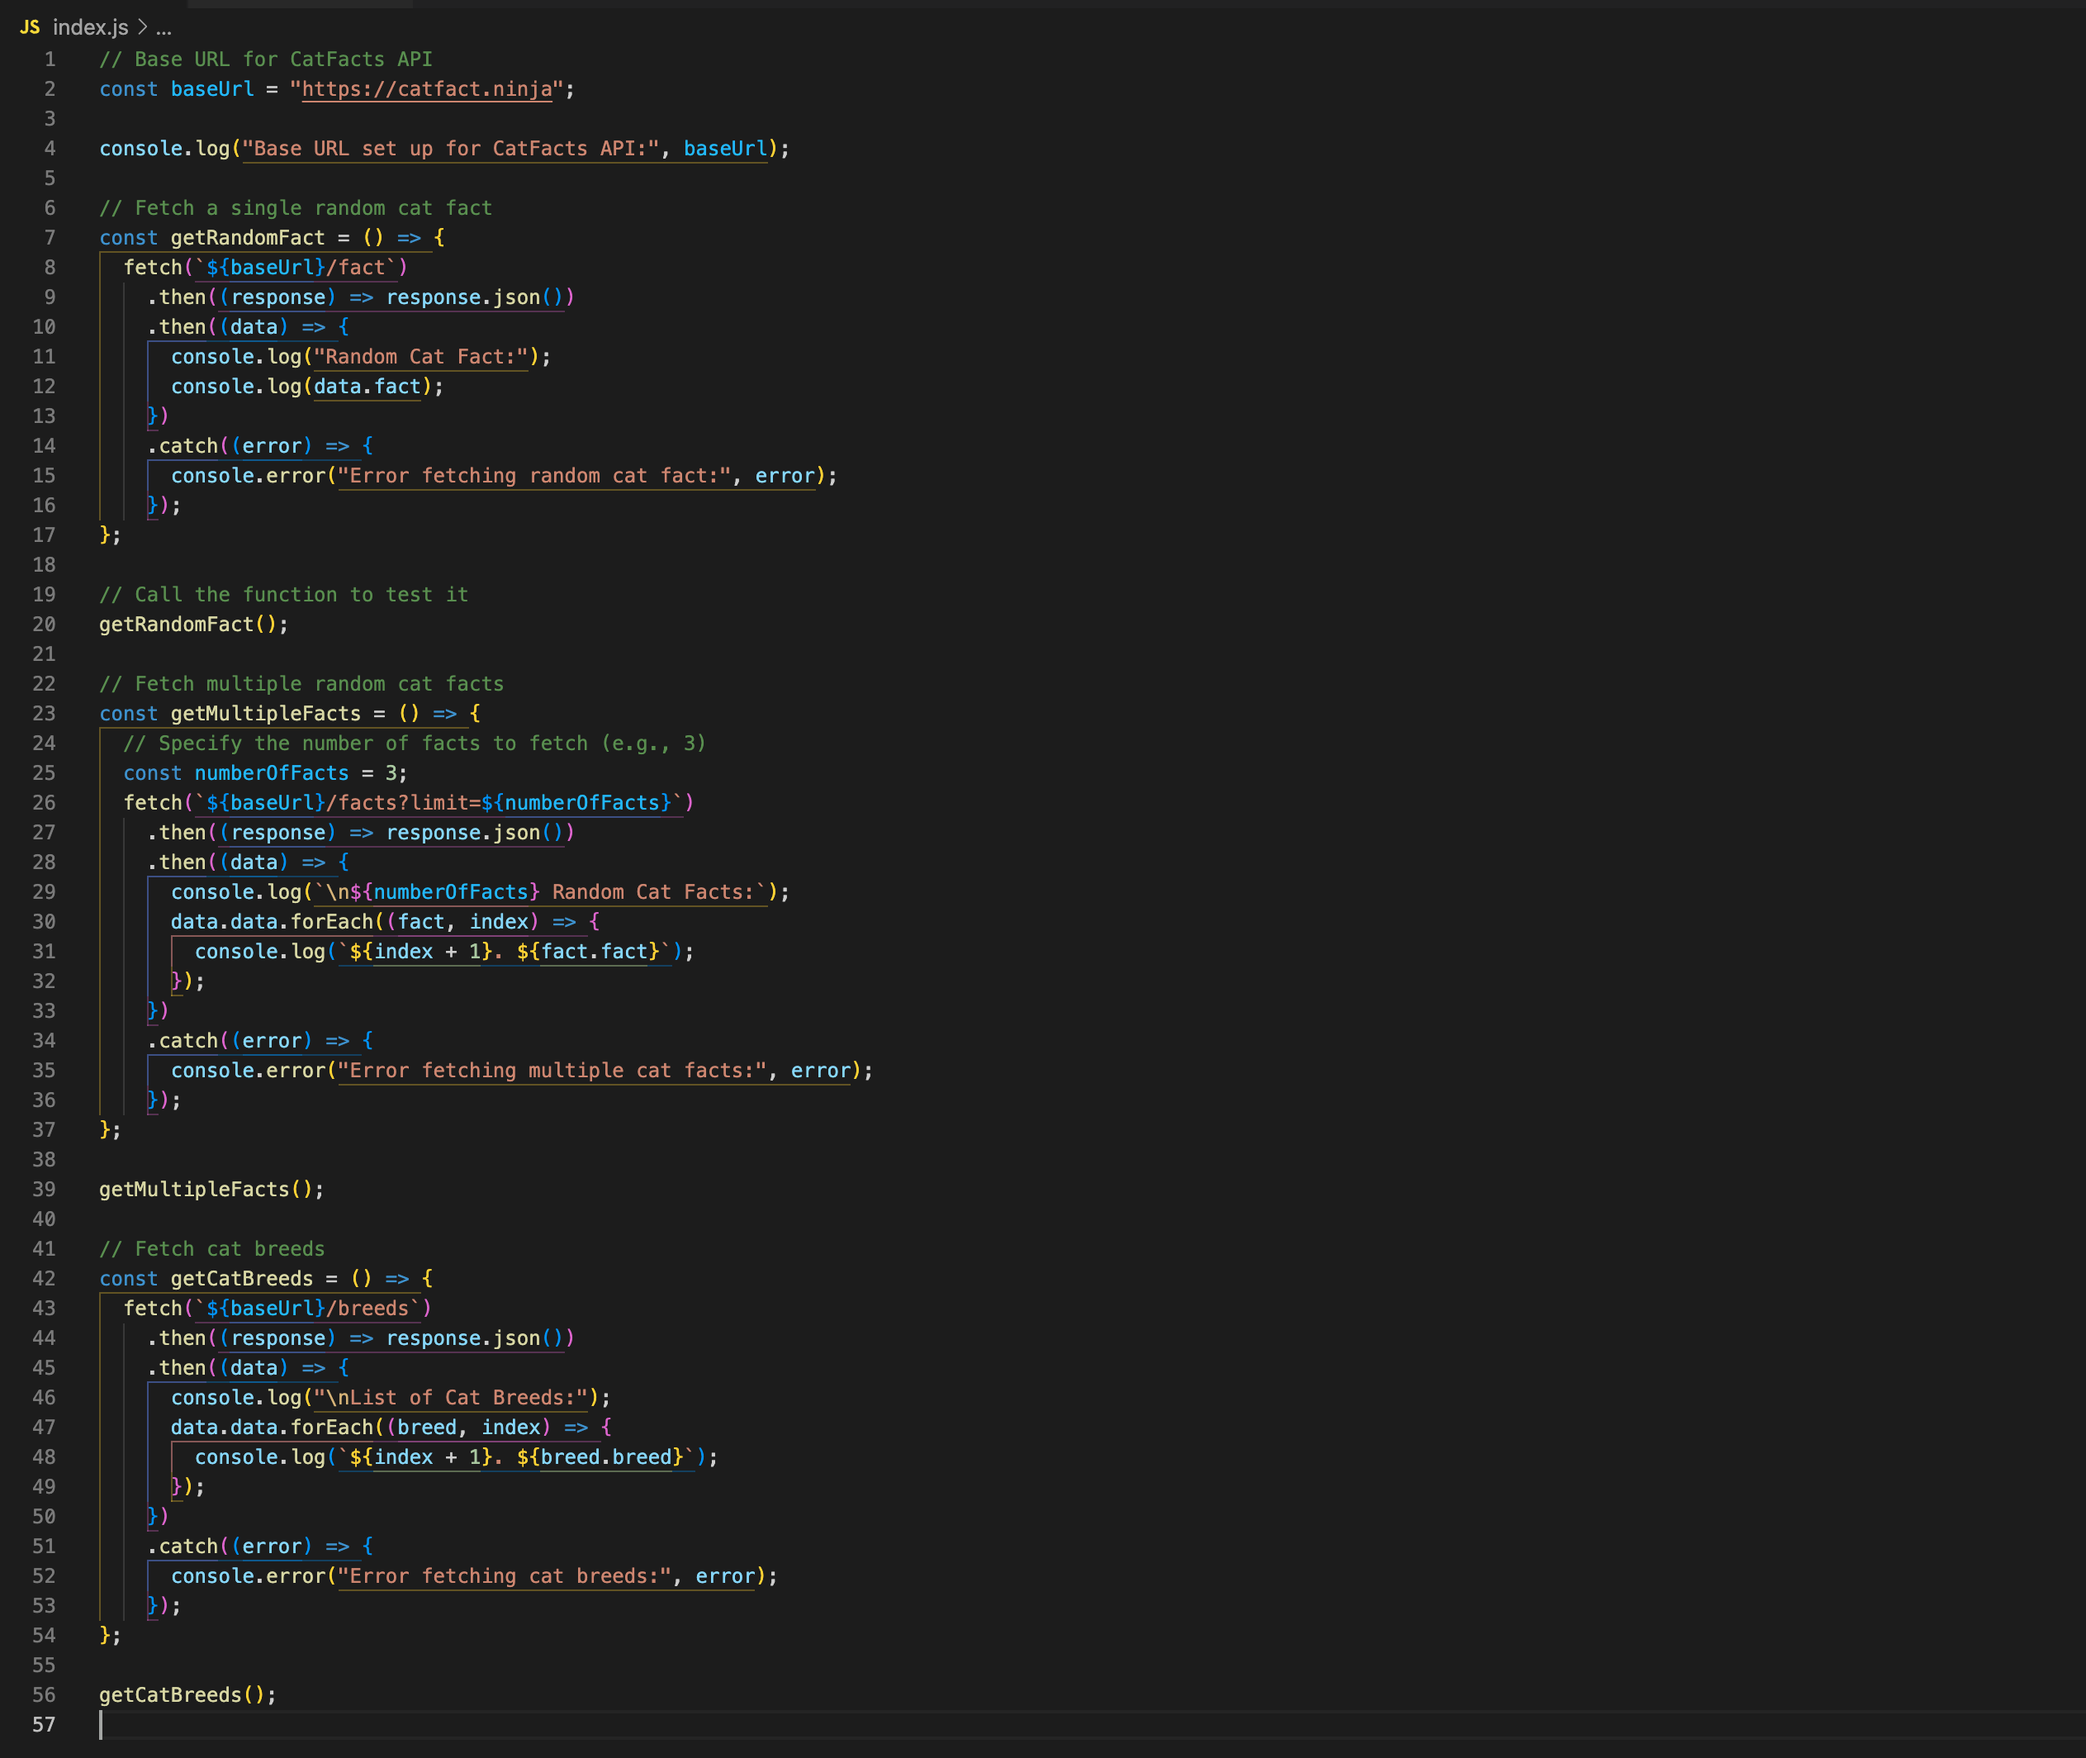
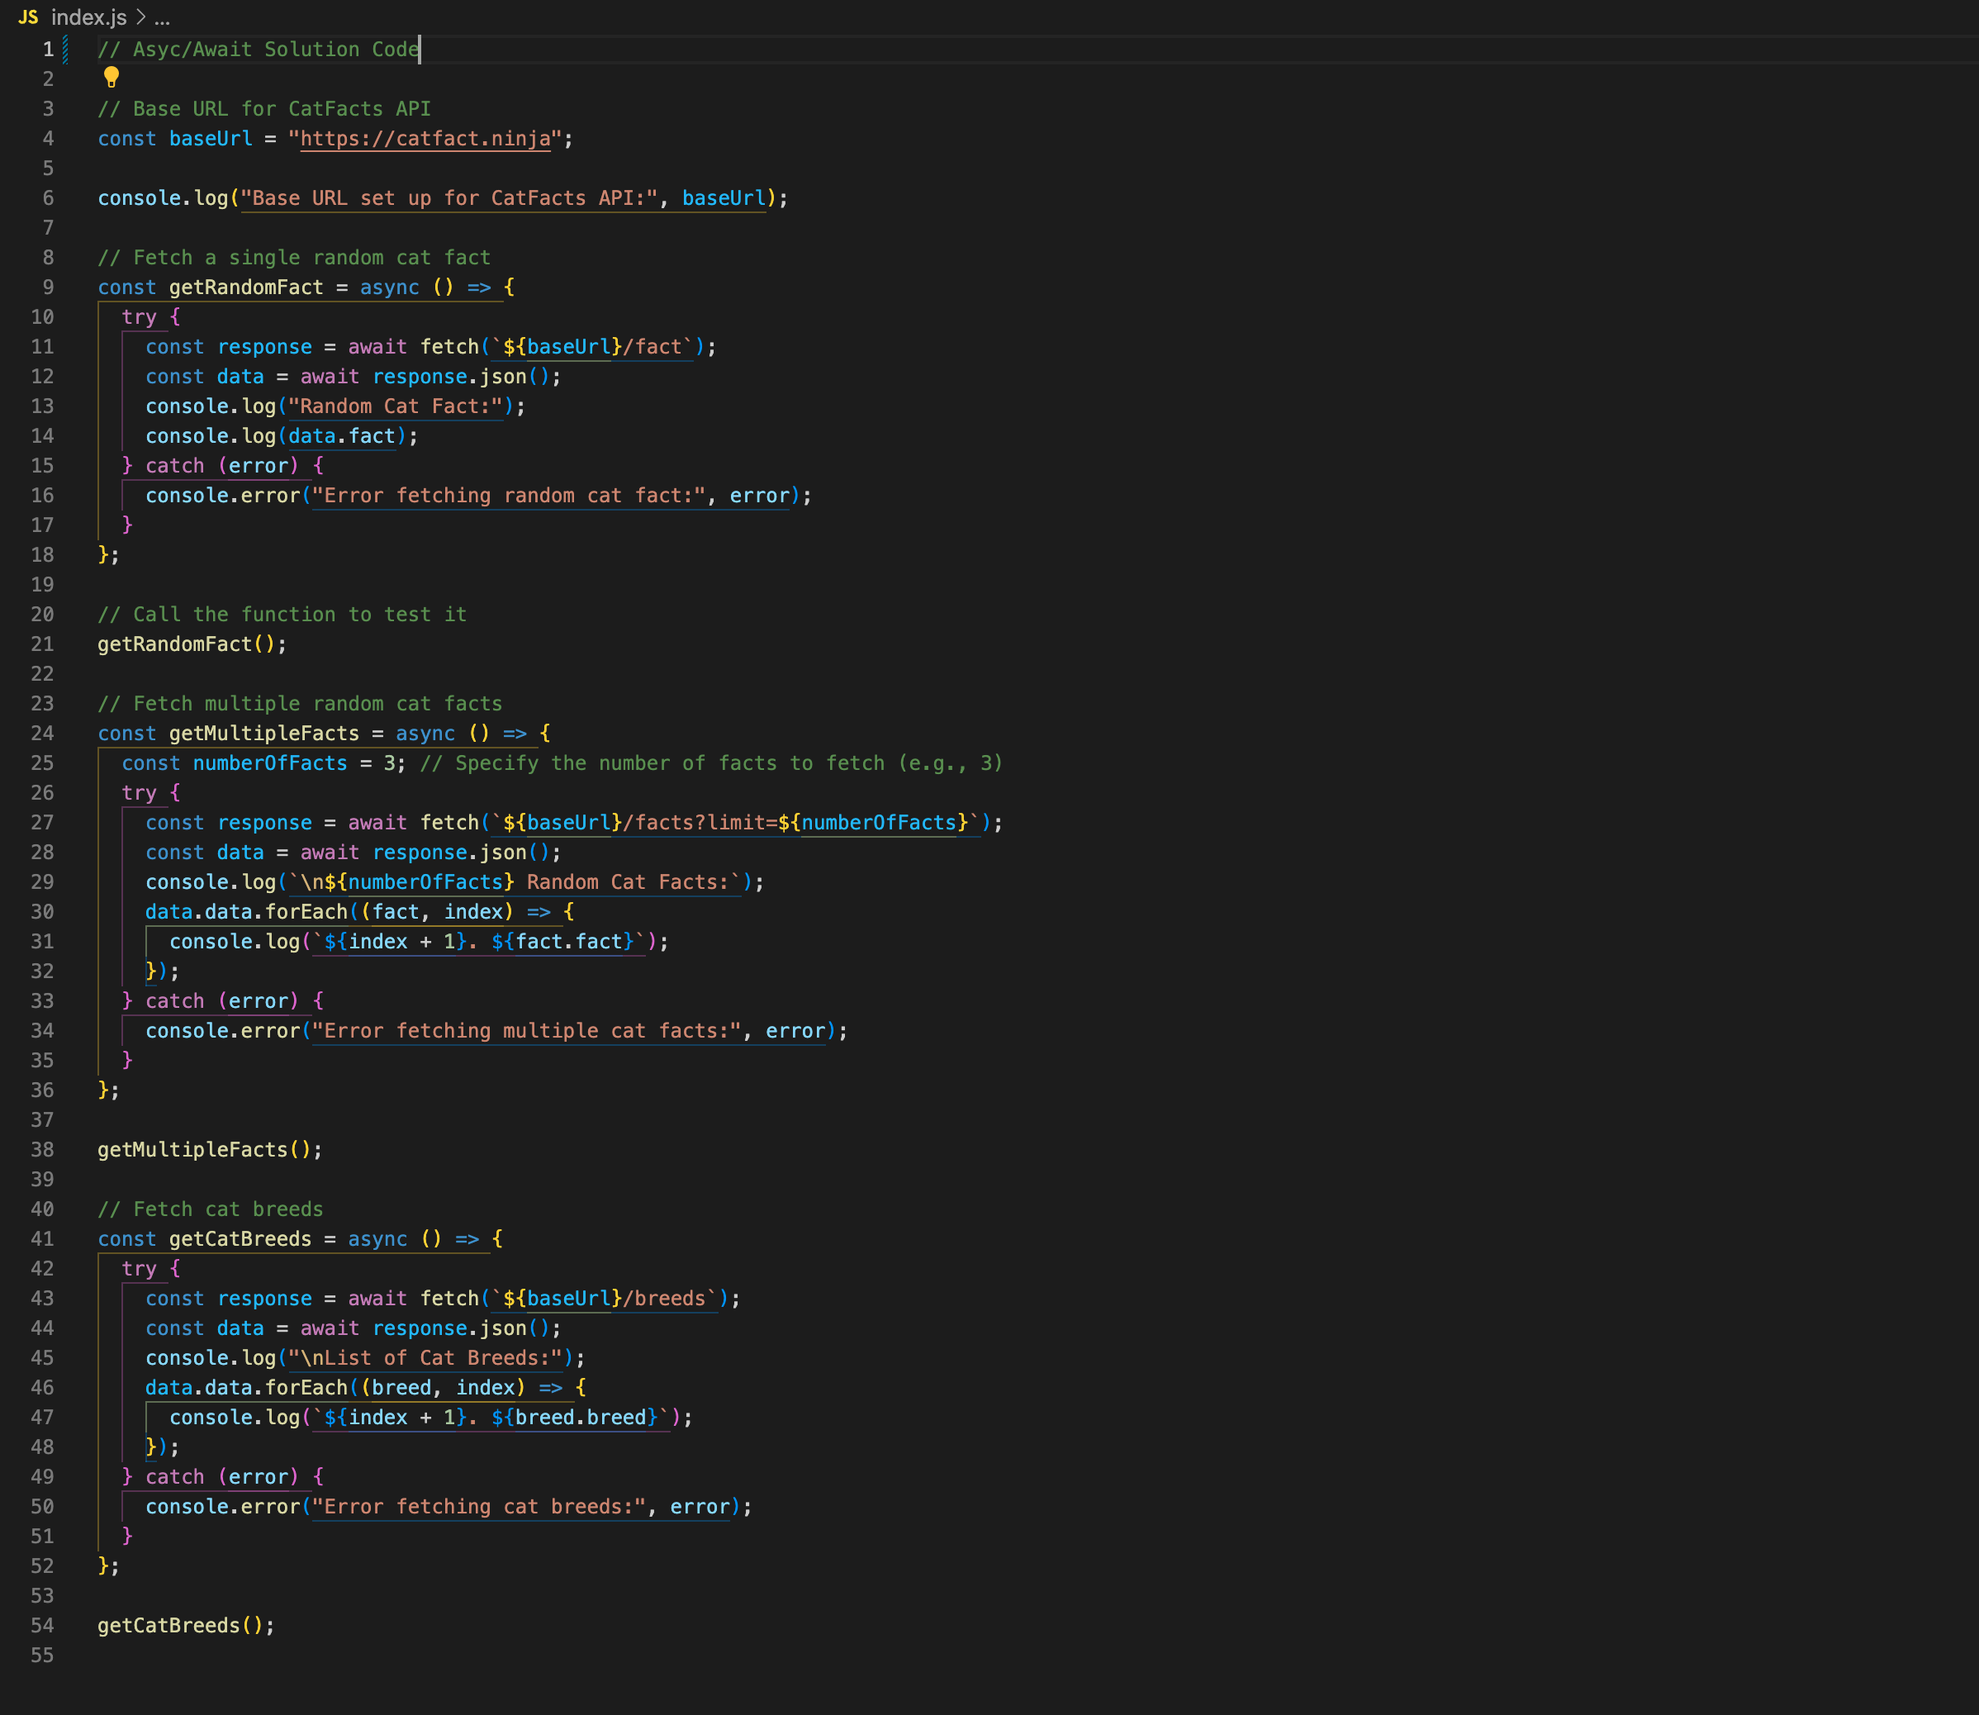
fixed image

Changed region(s): [[0.0, 0.3083, 0.4942, 0.9865], [0.0, 0.0, 0.4015, 0.3083], [0.3397, 0.0617, 0.3706, 0.1233]]

diff --git a/index.js b/index.js
@@ -1,4 +1,4 @@
-// Asyc/Await Solution
+// Asyc/Await Solution Code
 
 // Base URL for CatFacts API
 const baseUrl = "https://catfact.ninja";
